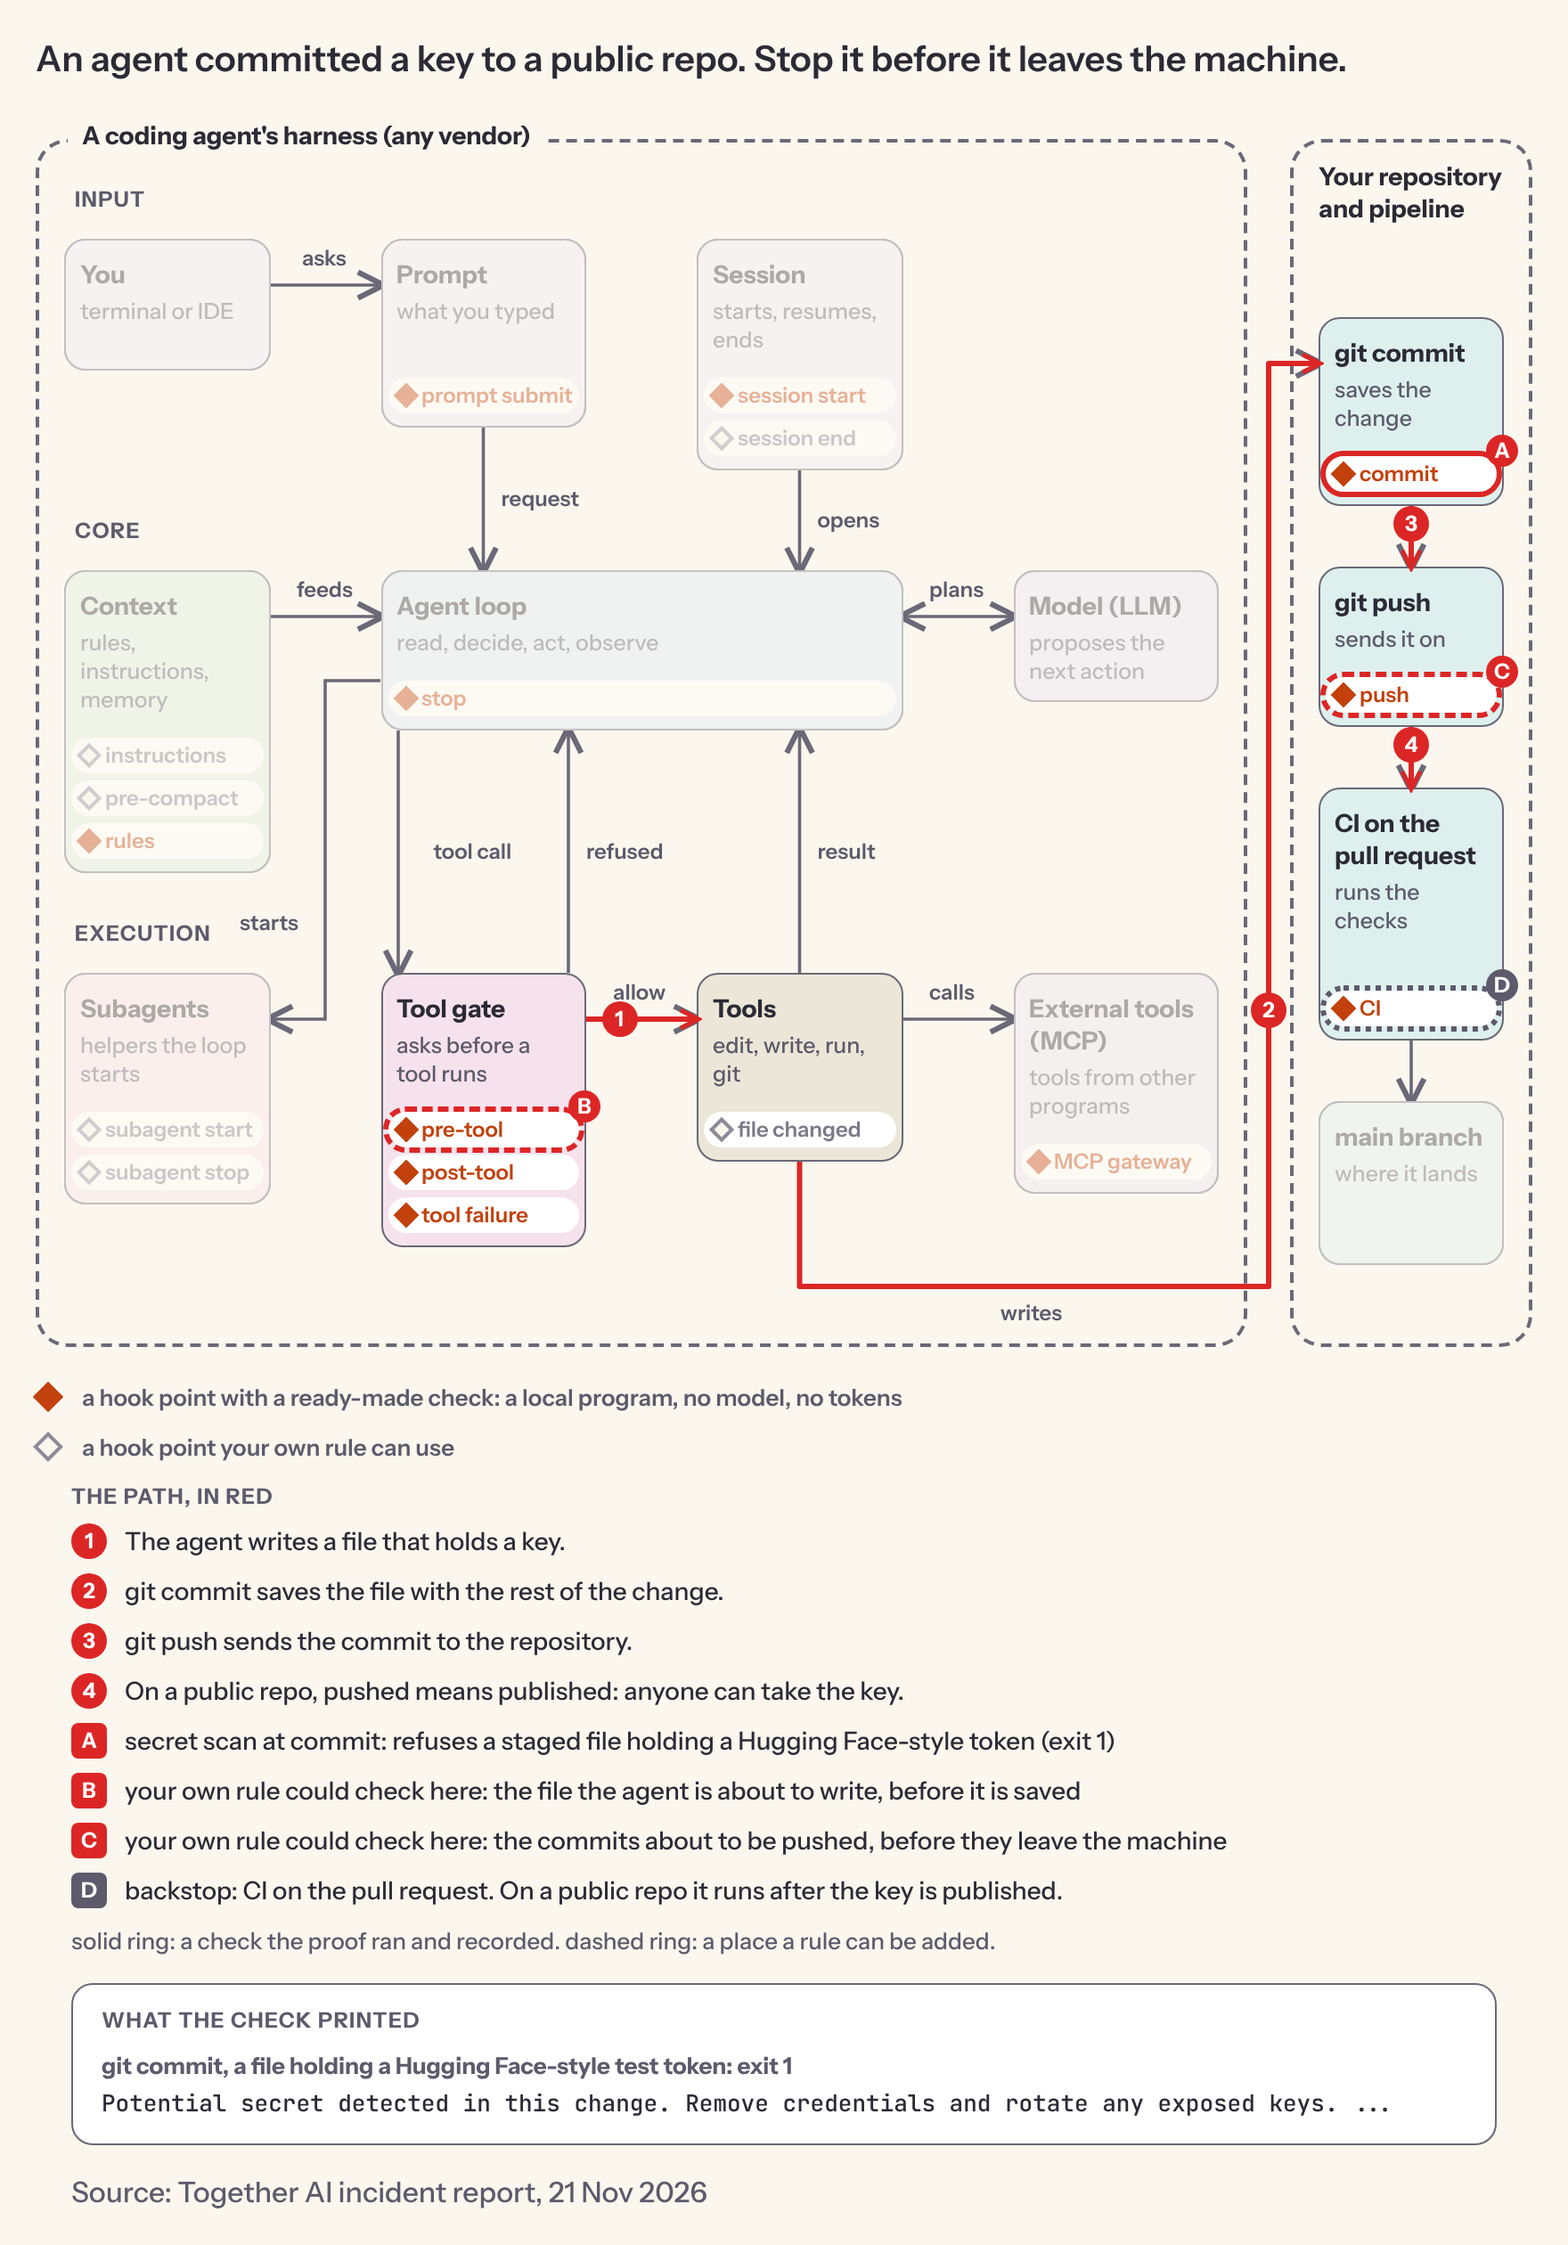
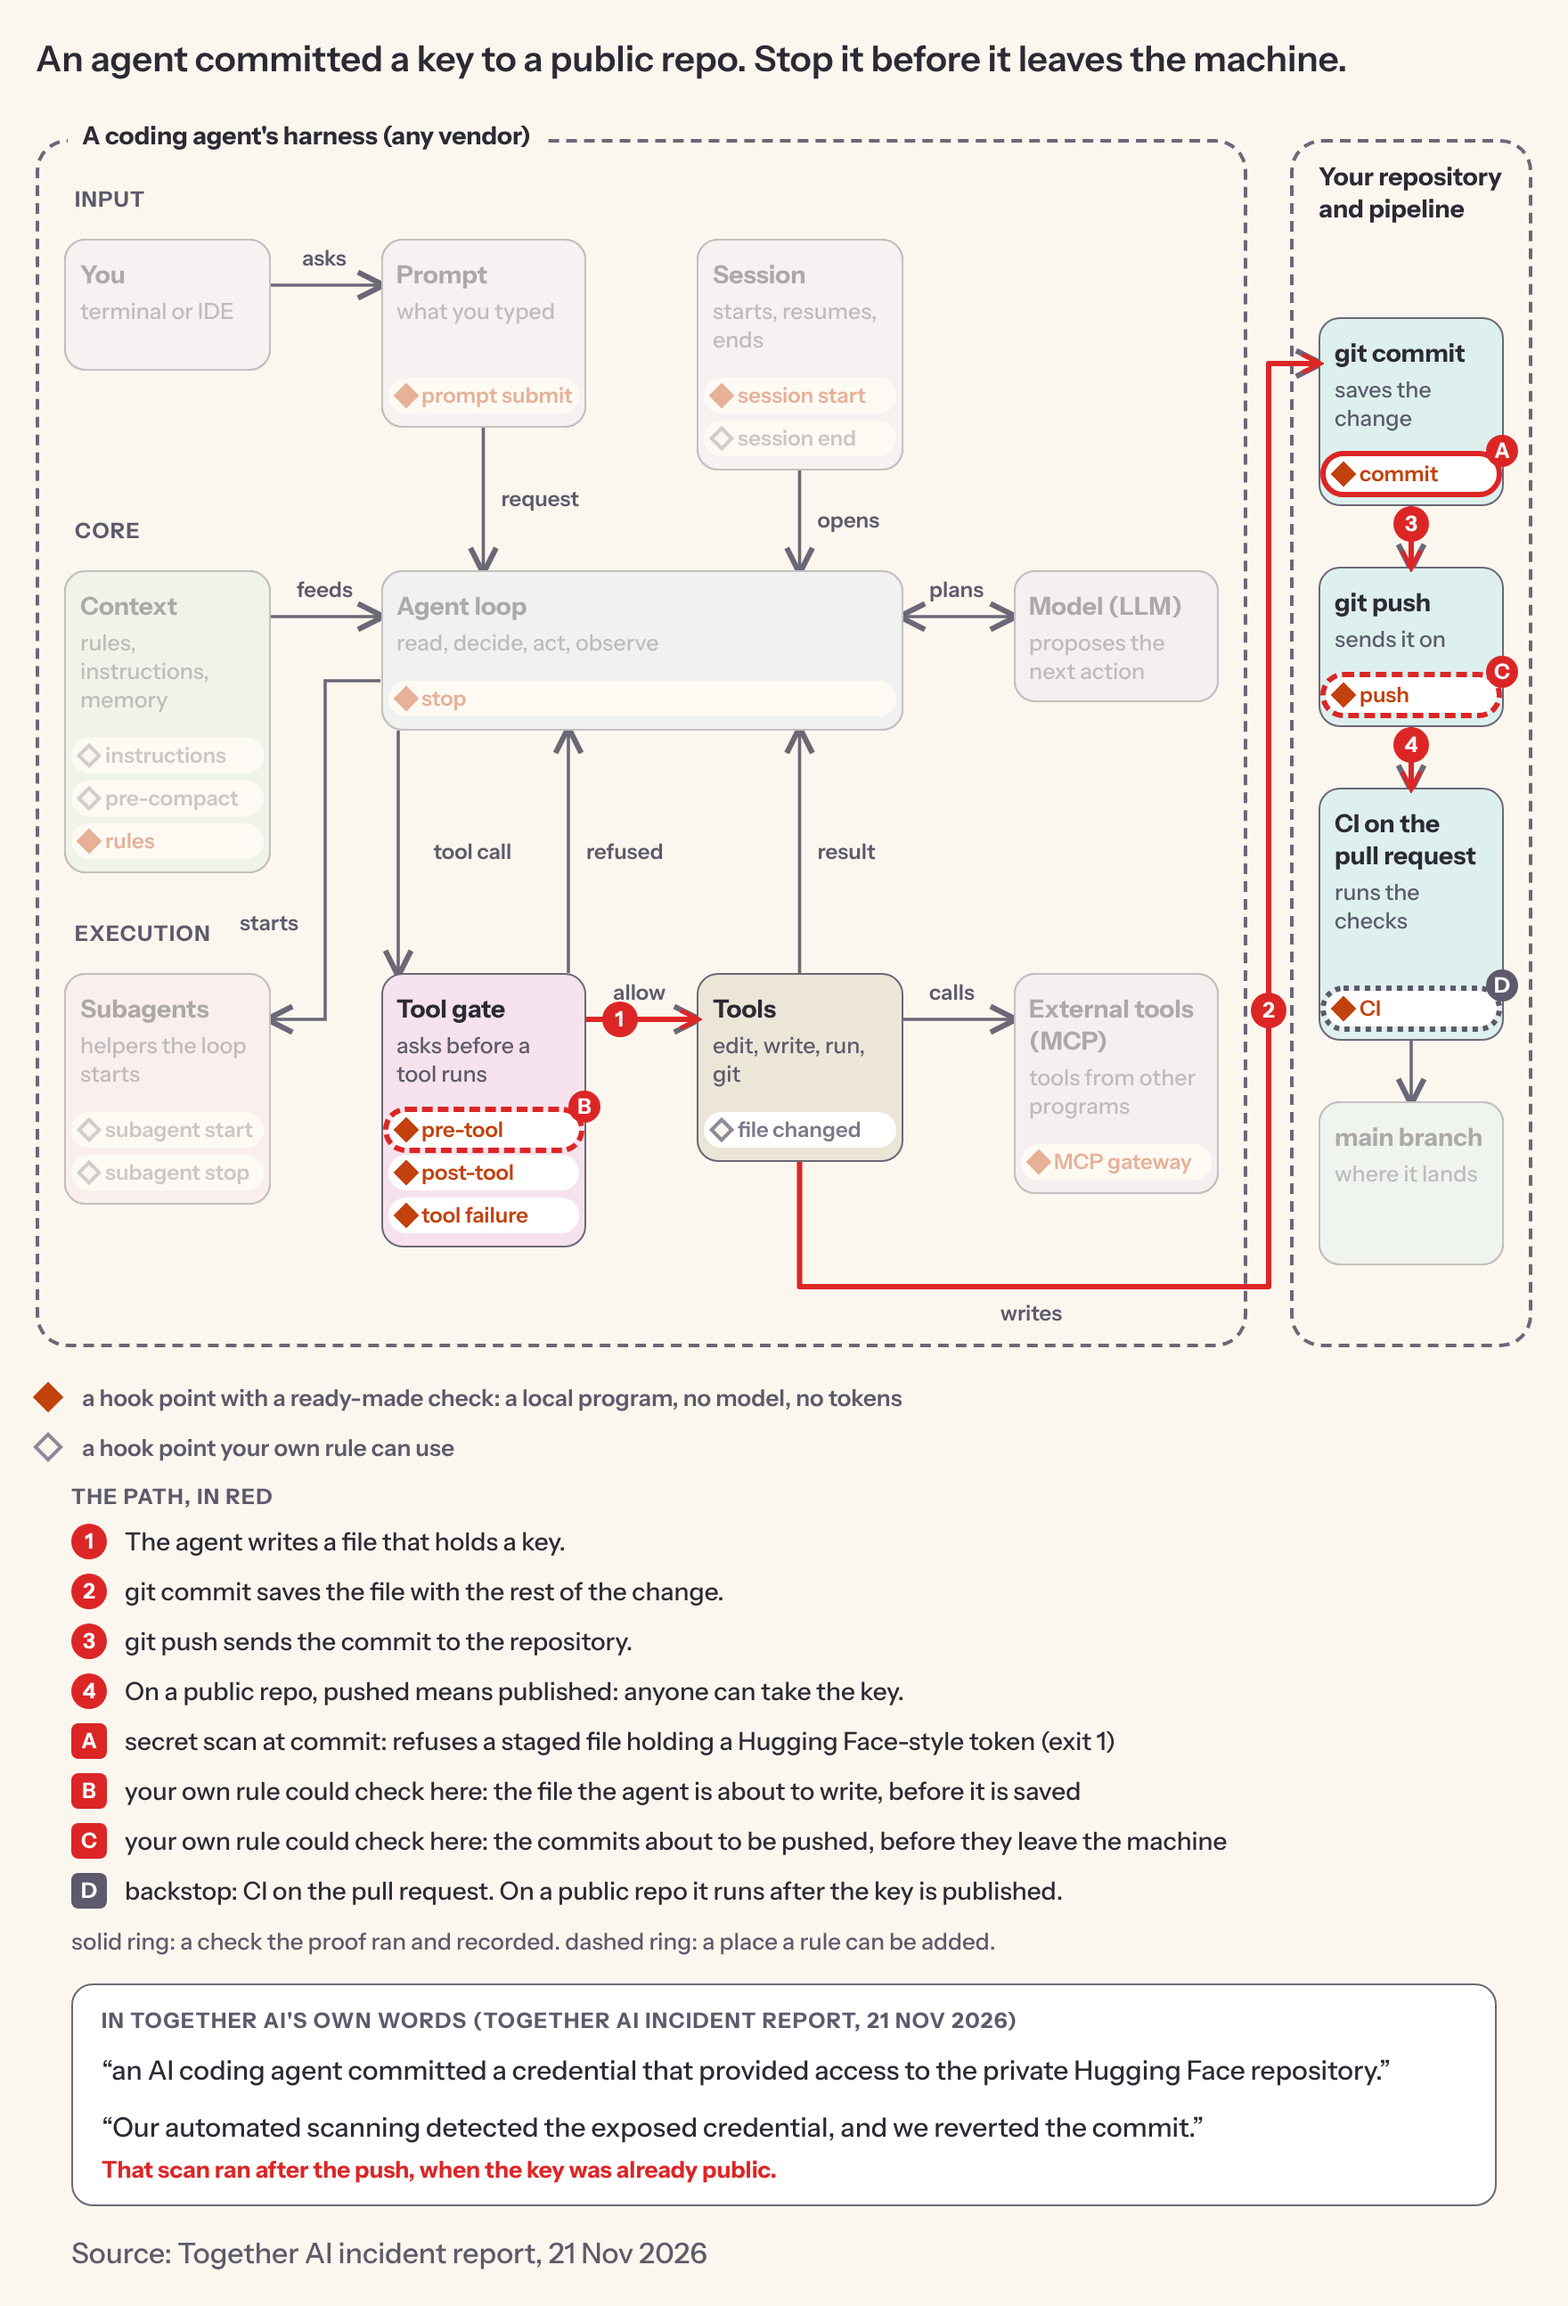
Show Together AI quotes in the incident picture
The box under the map holds two verbatim quotes from the report with the
source, and a note that the scan ran after the key was public. The
overlay gains an optional quotes field; without it output is unchanged.

diff --git a/tests/test_incident_overlay.py b/tests/test_incident_overlay.py
@@ -100,3 +100,13 @@ def test_together_rings_only_the_replayed_point_and_never_claims_the_rest() -> N
     assert all("could" in r["label"] for r in SPEC_T["dashed"])
     assert "after the key is published" in SPEC_T["backstop"][0]["label"]
     assert "stopped" not in json.dumps(SPEC_T).lower()
+
+
+def test_together_quotes_are_verbatim_and_attributed() -> None:
+    assert [q["text"] for q in SPEC_T["quotes"]] == [
+        "an AI coding agent committed a credential that provided access to the private Hugging Face repository.",
+        "Our automated scanning detected the exposed credential, and we reverted the commit.",
+    ]
+    assert "Together AI incident report, 21 Nov 2026" in SPEC_T["refusal_title"]
+    assert "already public" in SPEC_T["quotes"][1]["note"]
+    assert "Together AI's own words" in _legend(TOGETHER)
